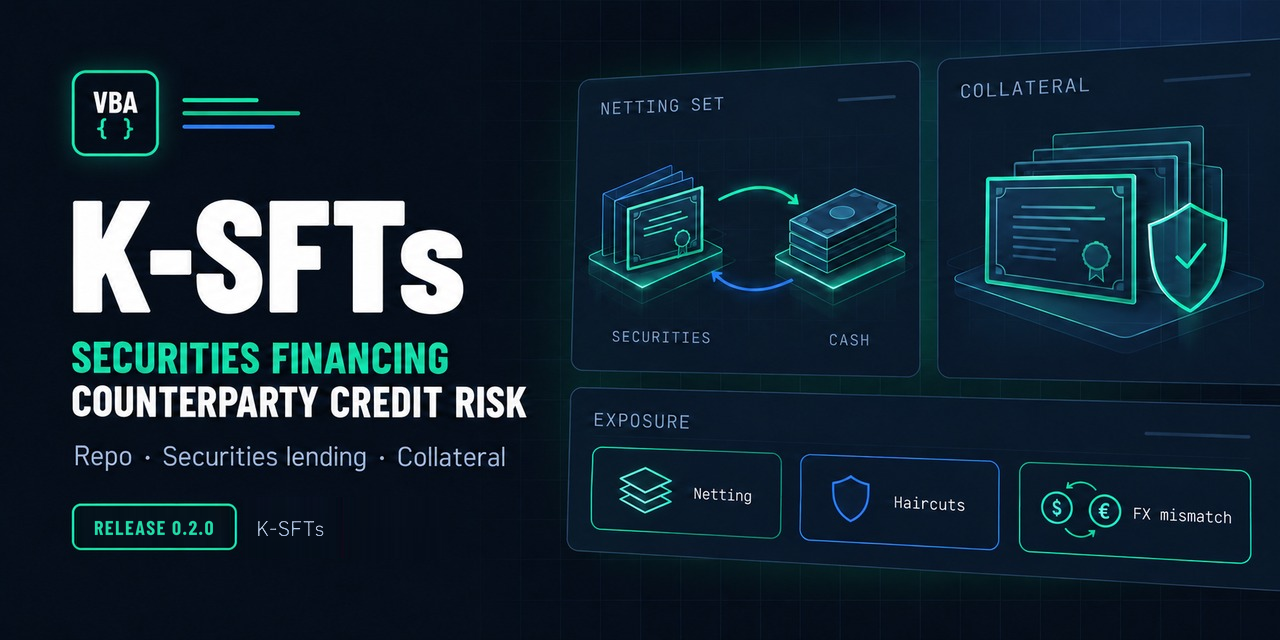
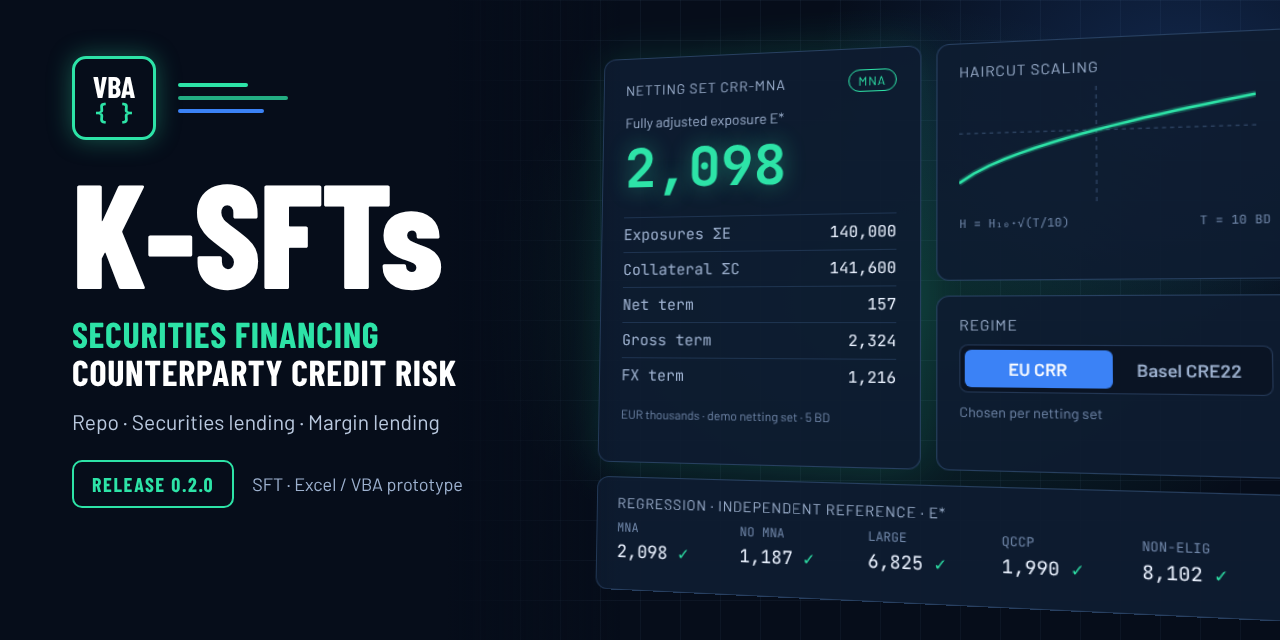
docs: render the hero image from an HTML source
The hero was a generated picture whose text had to be repainted at
each release. It is now docs/assets/SFT_social_preview.html, laid out
like my other engine's hero, with K-SFTs' own figures: the CRR-MNA
demo netting set and E* of five demo netting sets, from the
independent reference. tools/render_social_preview.mjs renders it to
the PNG at 1280 x 640 and stops if a web font did not load. The alt
texts, the website caption, NOTICE.md, the tool and website docs and
CHANGELOG.md follow.

Validated:
- python tools/check.py: 18 PASS lines
- links: 0 broken
- render: byte-identical on a second run; refuses with fonts missing
- PNG: 1280 x 640, 277 KB, no metadata; approved by me as a draft

Not validated:
- the website and the GitHub social preview, until integration and
  a new upload

Refs #239

diff --git a/docs/assets/SFT_social_preview.html b/docs/assets/SFT_social_preview.html
@@ -1,0 +1,97 @@
+<!doctype html>
+<html lang="en">
+<head>
+<meta charset="utf-8">
+<!--
+  Source of docs/assets/SFT_social_preview.png, the README hero, website
+  image and GitHub social preview (1280 x 640). Render it with
+  node tools/render_social_preview.mjs after any change (tools/README.md).
+  The figures are from the demo portfolio and its independent reference
+  (tests/derivations/): the CRR-MNA netting set, and E* of five netting sets
+  in EUR thousands. Change RELEASE x.y.z at each release.
+-->
+<title>K-SFTs social preview</title>
+<link href="https://fonts.googleapis.com/css2?family=Barlow+Condensed:wght@600;700;800&amp;family=Barlow:wght@400;500;600&amp;family=JetBrains+Mono:wght@400;500;700&amp;display=swap" rel="stylesheet">
+<style>body{margin:0}</style>
+</head>
+<body>
+<div style="position: relative; width: 1280px; height: 640px; overflow: hidden; background-color: #060D1A; background-image: radial-gradient(ellipse 620px 420px at 900px 300px, rgba(45,227,167,0.16), transparent 70%), radial-gradient(ellipse 520px 380px at 1180px 80px, rgba(59,130,246,0.22), transparent 70%), linear-gradient(rgba(120,170,220,0.06) 1px, transparent 1px), linear-gradient(90deg, rgba(120,170,220,0.06) 1px, transparent 1px); background-size: auto, auto, 40px 40px, 40px 40px; font-family: 'Barlow', sans-serif; color: #EAF2FF">
+
+<div style="position: absolute; left: 600px; top: 56px; width: 640px; height: 530px; transform: perspective(1400px) rotateY(-14deg) rotateX(4deg); transform-origin: left center; display: grid; grid-template-columns: repeat(2, minmax(0, 1fr)); grid-template-rows: auto auto auto; gap: 14px">
+
+<div style="grid-row: span 2; display: flex; flex-direction: column; gap: 14px; padding: 20px 22px; background: rgba(13,27,48,0.92); border: 1px solid rgba(110,160,230,0.28); border-radius: 12px; box-shadow: 0 0 40px rgba(45,227,167,0.14)">
+<div style="display: flex; justify-content: space-between; align-items: center; font-size: 14px; color: #9DB1CF; letter-spacing: 0.06em">
+<span>NETTING SET CRR-MNA</span>
+<span style="padding: 3px 9px; border: 1px solid #2DE3A7; border-radius: 999px; color: #2DE3A7; font-size: 12px">MNA</span>
+</div>
+<div style="display: flex; flex-direction: column; gap: 2px">
+<span style="font-size: 14px; color: #9DB1CF">Fully adjusted exposure E*</span>
+<span style="font-family: 'JetBrains Mono', monospace; font-size: 54px; font-weight: 700; color: #2DE3A7; text-shadow: 0 0 22px rgba(45,227,167,0.45)">2,098</span>
+</div>
+<div style="display: flex; flex-direction: column; font-family: 'JetBrains Mono', monospace; font-size: 15px">
+<div style="display: flex; justify-content: space-between; padding: 7px 0; border-top: 1px solid rgba(110,160,230,0.18)"><span style="color: #9DB1CF">Exposures ΣE</span><span>140,000</span></div>
+<div style="display: flex; justify-content: space-between; padding: 7px 0; border-top: 1px solid rgba(110,160,230,0.18)"><span style="color: #9DB1CF">Collateral ΣC</span><span>141,600</span></div>
+<div style="display: flex; justify-content: space-between; padding: 7px 0; border-top: 1px solid rgba(110,160,230,0.18)"><span style="color: #9DB1CF">Net term</span><span>157</span></div>
+<div style="display: flex; justify-content: space-between; padding: 7px 0; border-top: 1px solid rgba(110,160,230,0.18)"><span style="color: #9DB1CF">Gross term</span><span>2,324</span></div>
+<div style="display: flex; justify-content: space-between; padding: 7px 0; border-top: 1px solid rgba(110,160,230,0.18)"><span style="color: #9DB1CF">FX term</span><span>1,216</span></div>
+</div>
+<span style="font-size: 12px; color: #6F86A8">EUR thousands · demo netting set · 5 BD</span>
+</div>
+
+<div style="display: flex; flex-direction: column; gap: 10px; padding: 18px 20px; background: rgba(13,27,48,0.92); border: 1px solid rgba(110,160,230,0.28); border-radius: 12px">
+<span style="font-size: 14px; color: #9DB1CF; letter-spacing: 0.06em">HAIRCUT SCALING</span>
+<svg width="260" height="110" viewBox="0 0 300 110" preserveAspectRatio="none" role="img" aria-label="Supervisory haircut scaled by the square root of the holding period over ten days">
+<path d="M0 41.2 L300 41.2" stroke="#3B5376" stroke-width="1" stroke-dasharray="4 4" fill="none"></path>
+<path d="M142.1 0 L142.1 110" stroke="#3B5376" stroke-width="1" stroke-dasharray="4 4" fill="none"></path>
+<path d="M0.0 88.3 L15.8 79.3 L31.6 72.3 L47.4 66.5 L63.2 61.4 L78.9 56.7 L94.7 52.5 L110.5 48.5 L126.3 44.8 L142.1 41.2 L157.9 37.9 L173.7 34.7 L189.5 31.6 L205.3 28.7 L221.1 25.8 L236.8 23.0 L252.6 20.4 L268.4 17.8 L284.2 15.2 L300.0 12.8" stroke="#2DE3A7" stroke-width="6" stroke-opacity="0.25" fill="none" stroke-linejoin="round"></path>
+<path d="M0.0 88.3 L15.8 79.3 L31.6 72.3 L47.4 66.5 L63.2 61.4 L78.9 56.7 L94.7 52.5 L110.5 48.5 L126.3 44.8 L142.1 41.2 L157.9 37.9 L173.7 34.7 L189.5 31.6 L205.3 28.7 L221.1 25.8 L236.8 23.0 L252.6 20.4 L268.4 17.8 L284.2 15.2 L300.0 12.8" stroke="#2DE3A7" stroke-width="2.5" fill="none" stroke-linejoin="round"></path>
+</svg>
+<div style="display: flex; justify-content: space-between; font-family: 'JetBrains Mono', monospace; font-size: 11px; color: #6F86A8"><span>H = H₁₀·√(T/10)</span><span>T = 10 BD</span></div>
+</div>
+
+<div style="display: flex; flex-direction: column; gap: 10px; padding: 18px 20px; background: rgba(13,27,48,0.92); border: 1px solid rgba(110,160,230,0.28); border-radius: 12px">
+<span style="font-size: 14px; color: #9DB1CF; letter-spacing: 0.06em">REGIME</span>
+<div style="display: flex; padding: 4px; background: #0A1424; border: 1px solid rgba(110,160,230,0.25); border-radius: 8px; font-size: 16px; font-weight: 600">
+<span style="flex: 1; text-align: center; padding: 8px 0; border-radius: 6px; background: #3B82F6; color: #FFFFFF">EU CRR</span>
+<span style="flex: 1; text-align: center; padding: 8px 0; color: #9DB1CF">Basel CRE22</span>
+</div>
+<span style="font-size: 13px; color: #6F86A8">Chosen per netting set</span>
+</div>
+
+<div style="grid-column: span 2; display: flex; flex-direction: column; gap: 8px; padding: 16px 20px; background: rgba(13,27,48,0.92); border: 1px solid rgba(110,160,230,0.28); border-radius: 12px">
+<span style="font-size: 14px; color: #9DB1CF; letter-spacing: 0.06em">REGRESSION · INDEPENDENT REFERENCE · E*</span>
+<div style="display: grid; grid-template-columns: repeat(5, minmax(0, 1fr)); gap: 10px; font-family: 'JetBrains Mono', monospace">
+<div style="display: flex; flex-direction: column; gap: 4px"><span style="font-size: 12px; color: #6F86A8">MNA</span><span style="font-size: 17px">2,098 <span style="color: #2DE3A7">✓</span></span></div>
+<div style="display: flex; flex-direction: column; gap: 4px"><span style="font-size: 12px; color: #6F86A8">NO MNA</span><span style="font-size: 17px">1,187 <span style="color: #2DE3A7">✓</span></span></div>
+<div style="display: flex; flex-direction: column; gap: 4px"><span style="font-size: 12px; color: #6F86A8">LARGE</span><span style="font-size: 17px">6,825 <span style="color: #2DE3A7">✓</span></span></div>
+<div style="display: flex; flex-direction: column; gap: 4px"><span style="font-size: 12px; color: #6F86A8">QCCP</span><span style="font-size: 17px">1,990 <span style="color: #2DE3A7">✓</span></span></div>
+<div style="display: flex; flex-direction: column; gap: 4px"><span style="font-size: 12px; color: #6F86A8">NON-ELIG</span><span style="font-size: 17px">8,102 <span style="color: #2DE3A7">✓</span></span></div>
+</div>
+</div>
+</div>
+
+<div style="position: absolute; left: 0; top: 0; width: 620px; height: 640px; background: linear-gradient(90deg, #060D1A 0%, #060D1A 72%, rgba(6,13,26,0) 100%)"></div>
+
+<div style="position: absolute; left: 72px; top: 56px; width: 520px; display: flex; flex-direction: column; gap: 18px">
+<div style="display: flex; align-items: center; gap: 22px">
+<div style="width: 84px; height: 84px; box-sizing: border-box; border: 3px solid #2DE3A7; border-radius: 14px; display: flex; flex-direction: column; align-items: center; justify-content: center; gap: 2px; box-shadow: 0 0 24px rgba(45,227,167,0.35)">
+<span style="font-family: 'Barlow Condensed', sans-serif; font-weight: 700; font-size: 30px; line-height: 1; color: #FFFFFF">VBA</span>
+<span style="font-family: 'JetBrains Mono', monospace; font-weight: 700; font-size: 22px; line-height: 1; color: #2DE3A7">{ }</span>
+</div>
+<div style="display: flex; flex-direction: column; gap: 9px">
+<div style="width: 70px; height: 4px; border-radius: 2px; background: #2DE3A7"></div>
+<div style="width: 110px; height: 4px; border-radius: 2px; background: #2DE3A7; opacity: 0.75"></div>
+<div style="width: 86px; height: 4px; border-radius: 2px; background: #3B82F6"></div>
+</div>
+</div>
+<h1 style="margin: 6px 0 0 0; font-family: 'Barlow Condensed', sans-serif; font-weight: 800; font-size: 148px; line-height: 0.9; letter-spacing: -0.01em; color: #FFFFFF">K-SFTs</h1>
+<div style="font-family: 'Barlow Condensed', sans-serif; font-weight: 700; font-size: 36px; line-height: 1.05; letter-spacing: 0.02em; color: #2DE3A7">SECURITIES FINANCING<br><span style="color: #FFFFFF">COUNTERPARTY CREDIT RISK</span></div>
+<div style="font-size: 21px; color: #B9C8DE">Repo · Securities lending · Margin lending</div>
+<div style="display: flex; align-items: center; gap: 18px; margin-top: 8px">
+<span style="padding: 10px 18px; border: 2px solid #2DE3A7; border-radius: 10px; font-family: 'Barlow Condensed', sans-serif; font-weight: 700; font-size: 20px; letter-spacing: 0.08em; color: #2DE3A7">RELEASE 0.2.0</span>
+<span style="font-size: 18px; color: #9DB1CF">SFT · Excel / VBA prototype</span>
+</div>
+</div>
+</div>
+</body>
+</html>

diff --git a/docs/index.html b/docs/index.html
@@ -30,7 +30,7 @@
     <p class="hero-copy">Inspect transactions, supervisory haircuts and netting-set results. Follow the calculation from the assets given and received to the fully adjusted exposure value, E*.</p>
     <div class="actions"><a class="button primary" href="#start">Explore the prototype ↓</a><a class="button secondary" href="https://github.com/danielep71/K-SFTs/blob/main/docs/methodology/PROTOTYPE.md">Read the specification ↗</a></div>
   </div>
-  <figure class="hero-art"><img src="assets/SFT_social_preview.png" width="1280" height="640" alt="Conceptual illustration of the K-SFTs project, with exposure and collateral dashboard panels"><figcaption>Project illustration · not a screenshot or validation evidence</figcaption></figure>
+  <figure class="hero-art"><img src="assets/SFT_social_preview.png" width="1280" height="640" alt="K-SFTs, release 0.2.0: E* of the demo netting set CRR-MNA with its terms, haircut scaling, the EU CRR or Basel regime, and five demo netting sets equal to the independent reference"><figcaption>Demo figures from the prototype and its independent reference · not validation evidence</figcaption></figure>
 </div><div class="wrap principles"><span>Reviewable VBA source</span><span>Supervisory haircuts</span><span>Independent Python reference</span><span>MPL-2.0 licensed</span></div></section>
 <div class="wrap"><aside class="status" aria-label="Prototype status"><strong>Working prototype · not a validated method.</strong> The prototype is available for inspection and experimentation. It departs from recorded scope and methodology decisions and must not be used to compute regulatory exposure. <a href="https://github.com/danielep71/K-SFTs/blob/main/docs/methodology/PROTOTYPE.md">Read the departures and limitations ↗</a></aside></div>
 <section id="calculation" class="wrap"><p class="eyebrow">01 / The calculation</p><h2>Transactions. Haircuts. Netting.</h2>

diff --git a/NOTICE.md b/NOTICE.md
@@ -30,6 +30,7 @@ same licence, MPL-2.0.
 | --- | --- | --- | --- |
 | `.github/workflows/traffic-history.yml`, `tools/traffic_history.py`, `docs/TRAFFIC.md` | [K-Risk-Engines](https://github.com/danielep71/K-Risk-Engines) `docs/TRAFFIC.md` (design) | `8942d070c80097762534ad6fb09e9c38b101da83` | Rewritten for this repository ([#36](https://github.com/danielep71/K-SFTs/issues/36)): merge logic moved into a tested script with validation and all-or-nothing writes; data branch created with a fixed layout; zero and unavailable days distinguished; token limited to the fetch step. Badges, alert issues and repository counts came later (next row). |
 | `.github/workflows/traffic-history.yml`, `tools/traffic_history.py`, `docs/TRAFFIC.md`, `README.md` (traffic badges) | [K-SACCR](https://github.com/danielep71/K-SACCR) `.github/workflows/daily-traffic.yml` (badges, alert, repository counts) | `957f30b7010e43cfd927ba264b76945a8fab481e` | Adapted ([#236](https://github.com/danielep71/K-SFTs/issues/236)): the badge definitions, alert triggers and thresholds are kept; the logic moved into the tested script; the counts are snapshot columns, blank in older rows; the alert issue carries the assignee, `P3` and `repository`, the earliest-due open milestone and a schedule, and is opened by a separate job that never receives `TRAFFIC_TOKEN`. |
+| `docs/assets/SFT_social_preview.html` | [K-SACCR](https://github.com/danielep71/K-SACCR) `docs/assets/SACCR_social_preview.html` (layout) | `e44d1b138f810393e8511ee80534765c4434a23e` | Adapted ([#239](https://github.com/danielep71/K-SFTs/issues/239)): the layout, colours and fonts are kept; the title, text and every figure are K-SFTs' own, from its demo portfolio and independent reference; a header comment names the source of the figures and the render command. |
 | `.github/PULL_REQUEST_TEMPLATE.md`; parts of `docs/GOVERNANCE.md` (Branches, Integration, Review) | K-Risk-Engines (structure) | `8942d070c80097762534ad6fb09e9c38b101da83` | Rewritten for this repository's branches, sync procedure and checks ([#1](https://github.com/danielep71/K-SFTs/issues/1), [#11](https://github.com/danielep71/K-SFTs/issues/11)). |
 
 The other files were written for, or adapted by me into, this
@@ -48,6 +49,7 @@ copied into the repository; each keeps its own licence.
 | Ruff | 0.17.1 | MIT | Python lint (`tools/requirements-quality-ci.txt`) |
 | mypy | 2.4.0 | MIT | Python type check (`tools/requirements-quality-ci.txt`) |
 | actionlint | 1.7.12 | MIT | Workflow check, downloaded and verified by SHA-256 |
+| Playwright | Not pinned; optional | Apache-2.0 | Renders the hero image (`tools/render_social_preview.mjs`); not a gate |
 
 The licences were checked on 2026-10-24 against the upstream licence files and
 package metadata, and again for Ruff 0.17.1 and mypy 2.4.0 on 2026-10-29
@@ -66,7 +68,16 @@ records.
 
 ## Artwork
 
-`docs/assets/SFT_social_preview.png` was generated with OpenAI image generation
+`docs/assets/SFT_social_preview.png` is rendered from
+`docs/assets/SFT_social_preview.html`, authored for K-SFTs on 2026-10-30 at my
+request (#239) after the hero of my other engine: the same layout, colours and
+fonts, with K-SFTs' own text and figures. Its figures come from the demo
+portfolio and its independent reference (`tests/derivations/`); they are
+prototype outputs, not evidence of validated calculations. The page loads
+Barlow, Barlow Condensed and JetBrains Mono (SIL Open Font License) from
+Google Fonts when it is rendered; no font file is stored here.
+
+It replaces an image generated with OpenAI image generation
 on 2026-10-24 at my request. My own
 social-preview images supplied the visual references (navy background,
 mint accents and dashboard composition). The title and footer were corrected to `K-SFTs`
@@ -77,7 +88,8 @@ social-preview use (#113). On 2026-10-30, after the v0.2.0 release, I had
 its pill changed from *Research & Development* to *Release 0.2.0*: only the
 pill and the `K-SFTs` label beside it were repainted, the text set in Barlow
 Condensed Bold (SIL Open Font License), which is not stored here, and the
-image was saved losslessly as a PNG under its present name (#235).
+image was saved losslessly as a PNG under its present name (#235). The
+generated image stays in the repository history.
 
 `docs/assets/SFT_aggregation.svg` and `docs/assets/SFT_aggregation.png` were
 authored for K-SFTs on 2026-10-26 at my request (#142). The SVG

diff --git a/tools/README.md b/tools/README.md
@@ -66,6 +66,22 @@ Not gates of `tools/check.py`:
 | --- | --- |
 | `build_template.py` | Writes `src/workbook/SFT_Template.xlsx` from `tests/derivations/prototype/`; needs `xlsxwriter` |
 | `lo_regression.py` | Runs the exported VBA headless in LibreOffice (VBA compatibility mode), compares Results with the derivation and runs the `SFT_*` unit tests. Not Excel evidence; its harness-only shims are listed in its docstring |
+| `render_social_preview.mjs` | Renders `docs/assets/SFT_social_preview.html` to `docs/assets/SFT_social_preview.png` at 1280 × 640, and stops if a web font did not load; see below |
+
+### Hero image
+
+The README hero, the website image and the GitHub social preview are one PNG,
+rendered from its HTML source. After changing the HTML, for example its
+`RELEASE x.y.z` pill at a release, render it again and commit both files:
+
+```sh
+npm install --no-save playwright && npx playwright install chromium   # once
+node tools/render_social_preview.mjs
+```
+
+The page loads its fonts from Google Fonts, so rendering needs the network;
+the same HTML renders to the same PNG. A changed PNG is uploaded again as the
+social preview in **Settings → General**, by hand.
 
 <a id="vba-static-checks"></a>
 

diff --git a/docs/WEBSITE.md b/docs/WEBSITE.md
@@ -10,6 +10,9 @@ The page is published at <https://danielep71.github.io/K-SFTs/>, by GitHub
 Pages set to **Deploy from a branch**, branch `main`, folder `/docs`; each
 push to `main` redeploys it. `docs/.nojekyll` makes this a plain static site. No package
 installation, JavaScript, build step, analytics or third-party fonts are needed.
+`docs/assets/SFT_social_preview.html`, the source of the hero image, is
+published with the folder but not linked; only it loads Google Fonts, when
+opened ([tools/README.md](../tools/README.md#hero-image)).
 
 Changes follow the repository task/release/main PR process. The live site
 updates only when the page changes reach `main` and the Pages deployment

diff --git a/docs/REPOSITORY_STRUCTURE.md b/docs/REPOSITORY_STRUCTURE.md
@@ -81,7 +81,7 @@ docs/               project website, governance, architecture, contracts, method
     sources/        copies of the regulatory texts relied on
 src/                production VBA source and the workbook template: the only inputs to the workbook
 tests/              verification source, synthetic fixtures, expected values
-tools/              repository checks and automation (Python; the VBA sync script in PowerShell)
+tools/              repository checks and automation (Python; the VBA sync script in PowerShell; the hero render in Node)
 ```
 
 The root holds the project documents (`README.md`, `INSTALLATION.md`,

diff --git a/CHANGELOG.md b/CHANGELOG.md
@@ -76,6 +76,11 @@ to v1.0.0.
   clones, visitors (14 days) and visits badge files, shown in the README;
   and a traffic alert issue is opened when views or clones spike, stars or
   forks increase, or a new referrer brings 5 or more views (#236).
+- The hero image is rendered from an HTML source,
+  `docs/assets/SFT_social_preview.html`, by
+  `tools/render_social_preview.mjs`, as for my other engine. It shows
+  demo figures of the prototype and its independent reference instead of
+  the generated illustration (#239).
 
 <a id="020"></a>
 

diff --git a/README.md b/README.md
@@ -54,7 +54,7 @@
 
 <p align="center">
   <img width="100%"
-       alt="K-SFTs - securities financing counterparty credit risk; release 0.2.0"
+       alt="K-SFTs, release 0.2.0: E* of the demo netting set CRR-MNA with its terms, haircut scaling, the EU CRR or Basel regime, and five demo netting sets equal to the independent reference"
        src="docs/assets/SFT_social_preview.png">
 </p>
 
